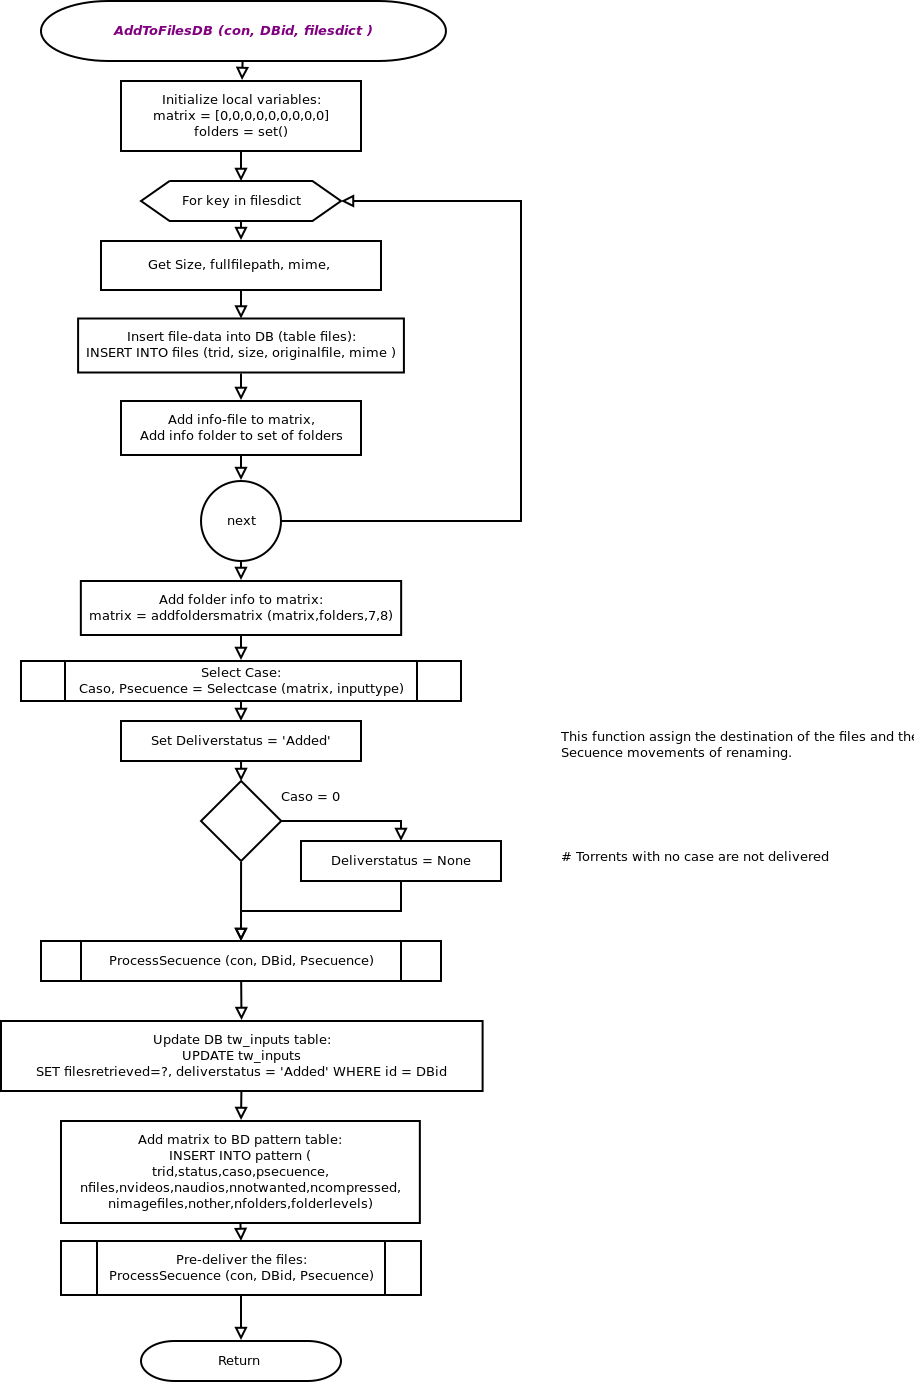
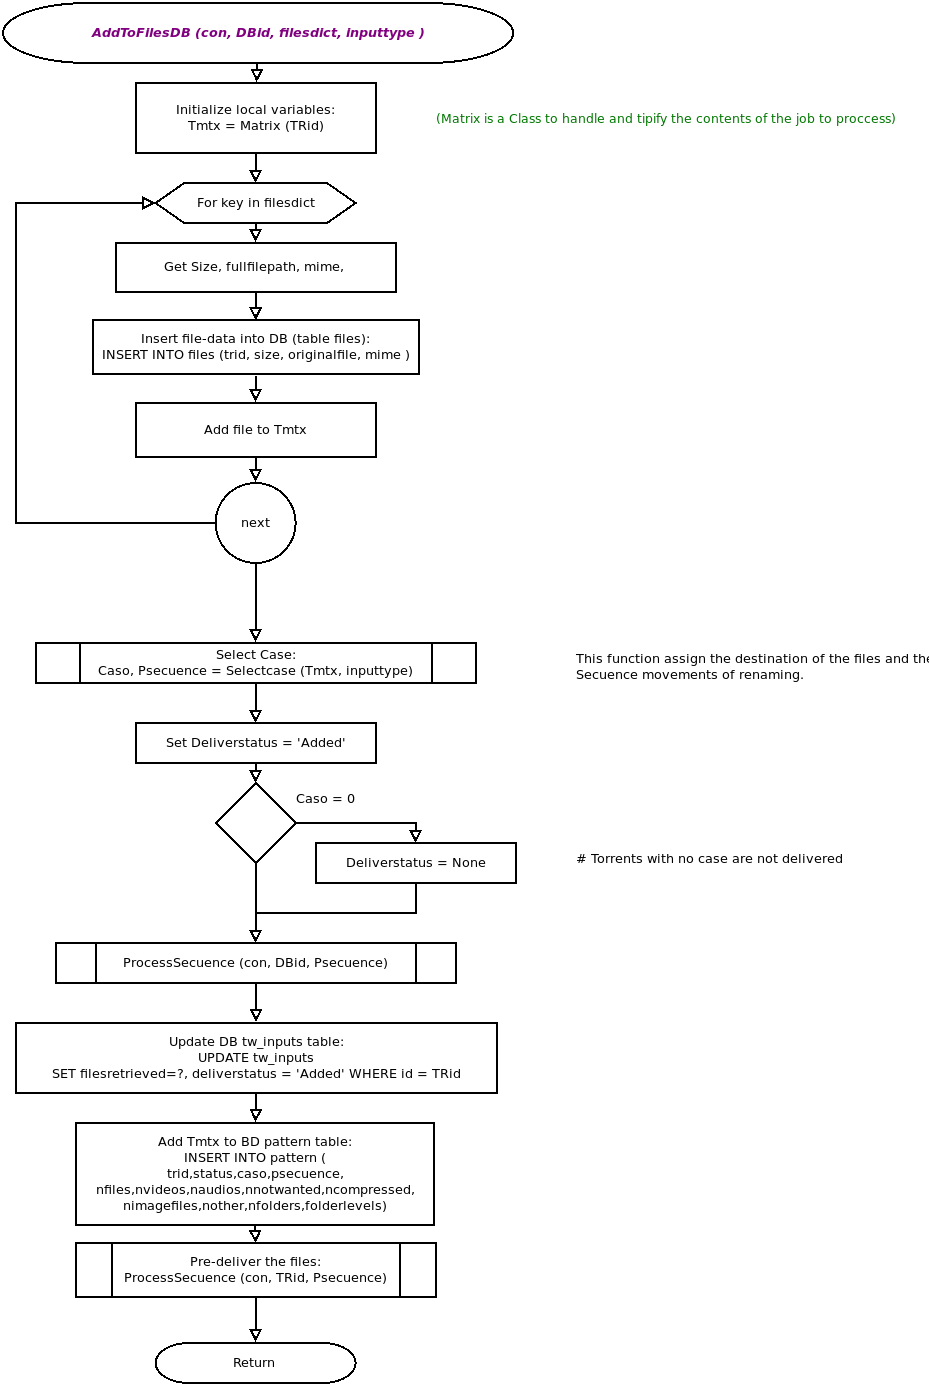
Refactoring: handling The Matrix as a Class to name vars and expand posibilities easily.

diff --git a/Gideon.py b/Gideon.py
@@ -1789,33 +1789,79 @@ def Retrievefilesdict ( Fullfilepath, Filetype):
 
 	return CollectionDictionary
 
-def AddFilesToDB (con, DBid, filesdict, inputtype):
+class Matrix :
+	""" Matrix generation for the set of downloaded files 
+		it identifies de downloaded item in ordert to perform deliver actions """
+	def __init__(self,TRid):
+		self.TRid = TRid
+		self.nfiles = 0
+		self.nvideos = 0
+		self.naudios = 0
+		self.nnotwanted = 0
+		self.ncompressed = 0
+		self.nimagefiles = 0
+		self.nother = 0
+		self.nbooks = 0
+		self.ncomics = 0
+		self.nfolders = 0
+		self.folderlevels = 0
+		self.folders_Set = set ()
+
+	def __addfolder__ (self,item):
+		self.folders_Set.add (os.path.dirname(item))
+		self.nfolders = len (self.folders_Set)
+		nlev = 1 + item.count('/')
+		if self.folderlevels < nlev:
+			self.folderlevels = nlev
+		print (os.path.dirname(item))
+		print (self.folders_Set)
+		print ('folderlevels', self.folderlevels)
+
+	def addfile (self,item):
+		self.nfiles += 1
+		mime = fileclasify (item)
+		if mime == 'video' : self.nvideos += 1
+		elif mime == 'audio' : self.naudios += 1
+		elif mime == 'ebook' : self.nbooks += 1
+		elif mime == 'comic' : self.ncomics += 1
+		elif mime == 'compressed' :self.ncompressed += 1
+		elif mime == 'notwanted' : self.nnotwanted += 1
+		elif mime == 'image' : self.nimagefiles += 1
+		else: self.nother += 1
+		self.__addfolder__(item)
+
+# =====================
+
+
+def AddFilesToDB (con, TRid, filesdict, inputtype):
 	''' Given a downloaded entry and its files-dict,
 		it informs those files in the Data Base,
 		it gets the matrix,
 		inform the matrix into the database,
 		it applies the process secuence and inform the destination of the files.
 	'''
-	matrix = [0,0,0,0,0,0,0,0,0,0,0]
-	folders = set()
+	#-# matrix = [0,0,0,0,0,0,0,0,0,0,0]
+	Tmtx = Matrix (TRid)
+	#-# folders = set()
 	for key in filesdict:
 		Size = filesdict.get(key)['size']
 		Originalfile = filesdict.get(key)['name']
 		Mime = fileclasify(Originalfile)
-		params = DBid, Size, Originalfile, Mime
+		params = TRid, Size, Originalfile, Mime
 		con.execute ("INSERT INTO files (trid, size, originalfile, mime ) VALUES (?,?,?,?)",params)
-		matrix = addmatrix (matrix, Mime)
-		folders.add (os.path.dirname(Originalfile))
-	matrix = addfoldersmatrix (matrix,folders,9,10)
+		#-# matrix = addmatrix (matrix, Mime)
+		Tmtx.addfile(Originalfile)
+		#-# folders.add (os.path.dirname(Originalfile))
+	#-# matrix = addfoldersmatrix (matrix,folders,9,10)
 	# Selecting Case and processing torrent files.
-	Caso, Psecuence = Selectcase (matrix, inputtype)
+	Caso, Psecuence = Selectcase (Tmtx, inputtype)
 	Deliverstatus = 'Added'
 	if Caso == 0:
 		Deliverstatus = None  # Torrents with no case are not delivered
-	ProcessSecuence (con, DBid, Psecuence)
-	params = len(filesdict), Deliverstatus ,DBid
+	ProcessSecuence (con, TRid, Psecuence)
+	params = len(filesdict), Deliverstatus ,TRid
 	con.execute ("UPDATE tw_inputs SET filesretrieved=?, deliverstatus = ? WHERE id = ?",params)
-	params = DBid, 'Added', Caso, str(Psecuence),  matrix[0],matrix[1],matrix[2],matrix[3],matrix[4],matrix[5],matrix[6],matrix[7],matrix[8],matrix[9],matrix[10]
+	params = TRid, 'Added', Caso, str(Psecuence),   Tmtx.nfiles, Tmtx.nvideos, Tmtx.naudios, Tmtx.nnotwanted, Tmtx.ncompressed, Tmtx.nimagefiles, Tmtx.nother, Tmtx.nbooks, Tmtx.ncomics, Tmtx.nfolders, Tmtx.folderlevels
 	con.execute ("INSERT INTO pattern (trid,status,caso,psecuence,nfiles,nvideos,naudios,nnotwanted,ncompressed,nimagefiles,nother,nbooks,ncomics,nfolders,folderlevels) VALUES (?,?,?,?,?,?,?,?,?,?,?,?,?,?,?)",params)
 	con.commit()
 	return 
@@ -1958,29 +2004,29 @@ def Selectcase (matrix, inputtype):
 		[4] ncompressed
 		[5] nimagefiles
 		[6] nother
-		[7] nebook
-		[8] ncomic
+		[7] nbooks
+		[8] ncomics
 		[9] nfolders
 		[10] folderlevels
 
 		DefTest OK"""
 	# Selectig case of only one video file:
-	if matrix[0] >= 1 and matrix[1] == 1 and (matrix[2]+matrix[4]+matrix[5]+matrix[6])==0 and matrix[10]==1:
+	if matrix.nfiles >= 1 and matrix.nvideos == 1 and (matrix.naudios+matrix.ncompressed+matrix.nimagefiles+matrix.nother)==0 and matrix.folderlevels==1:
 		NCase = 1
 
-	elif matrix[0] > 1 and matrix[1]==1 and (matrix[2]+matrix[4])==0 and matrix[6]==0 and matrix[10]==1:
+	elif matrix.nfiles > 1 and matrix.nvideos==1 and (matrix.naudios+matrix.ncompressed)==0 and matrix.nother==0 and matrix.folderlevels==1:
 		NCase = 2
 
-	elif matrix[0] >= 1 and matrix[2]>0 and (matrix[1]+matrix[6])==0 and matrix[9]==1 and matrix[10]==1:
+	elif matrix.nfiles >= 1 and matrix.naudios>0 and (matrix.nvideos+matrix.nother)==0 and matrix.nfolders==1 and matrix.folderlevels==1:
 		NCase = 3
 
-	elif matrix[0] >= 1 and matrix[1] == 0 and matrix[2] >= 1 and (matrix[4] + matrix[6] + matrix[7] + matrix[8]) == 0 and matrix[9]>=1 and matrix[10] > 1:
+	elif matrix.nfiles >= 1 and matrix.nvideos == 0 and matrix.naudios >= 1 and (matrix.ncompressed + matrix.nother + matrix.nbooks + matrix.ncomics) == 0 and matrix.nfolders>=1 and matrix.folderlevels > 1:
 		NCase = 7
 
-	elif matrix[0] == 1 and matrix[8] == 1:
+	elif matrix.nfiles == 1 and matrix.ncomics == 1:
 		NCase = 5
 
-	elif matrix[0] == 1 and matrix[7] == 1:
+	elif matrix.nfiles == 1 and matrix.nbooks == 1:
 		NCase = 6
 
 	elif inputtype == 'Telegram':
@@ -1993,29 +2039,7 @@ def Selectcase (matrix, inputtype):
 	
 	return NCase, Psecuensedict[NCase]
 
-def addmatrix(matrix, mime):
-	""" Adds +1 on matrix [0]
-		Adds +1 on matrix by mime type dict.
-		Deftest OK"""
-	matrix [0] += 1
-	matrix [Codemimes[mime]] += 1
-	return matrix
 
-def addfoldersmatrix (matrix, folders, posnfolders, posfolderlevels):
-	""" Given a info matrix and a set of relative _folders_,
-		it returns in the given positions:
-			number of diferent folders (counts the elements that are into the set())
-			depth of level path.
-		returns the matrix.
-		Deftest OK"""
-	matrix [posnfolders] = len(folders)
-	levels = 0
-	for a in folders:
-		nlev = 1 + a.count('/')
-		if nlev > levels:
-			levels = nlev
-	matrix [posfolderlevels] = levels
-	return matrix
 
 def DeliverFiles():
 	''' Check for 'Completed' entries and _deliverstatus_ = 'Added' in tw_inputs DB.

diff --git a/DefTests.py b/DefTests.py
@@ -239,25 +239,41 @@ class Selectcase (unittest.TestCase):
 		[10] folderlevels
 		"""
 	known_values = (
-		([0,0,0,0,0,0,0,0,0,  0,0], None , 0),
-		([1,1,0,0,0,0,0,0,0,  1,1], None , 1),
-		([60,1,0,55,0,4,0,0,0,  1,1], None, 2),
-		([25,0,13,0,0,1,0,0,0,  1,1], None, 3),
-		([26,0,13,1,0,1,0,0,0,  1,1], None, 3),
-		([26,0,13,1,0,1,0,0,0,  1,1], 'Telegram', 3),
-		([27,0,13,1,0,1,1,0,0,  1,1], None, 0),
-		([27,0,13,1,0,1,1,0,0,  1,1], 'Telegram', 4),  # If there is a no suitable case, and inputtype is 'Telegram', then Case is 4
-		([4,0,0,3,1,0,0,0,0, 1,1], None, 0),  # Compressed file
-		([1,0,0,0,0,0,0,1,0, 1,1], 'Telegram', 6),  # e-book file
-		([1,0,0,0,0,0,0,1,0, 1,1], None, 6),  # e-book file
-		([1,0,0,0,0,0,0,0,1, 1,1], 'Telegram', 5),  # Comic file file
-		([61,0,61,0,0,0,0,0,0, 6,2], None, 7),  # Audio files in a discography
-		([313,0,226,0,0,87,0,0,0, 37,4], None, 7),  # Audio files in a discography
+		(1,[0,0,0,0,0,0,0,0,0,  0,0], None , 0),
+		(2,[1,1,0,0,0,0,0,0,0,  1,1], None , 1),
+		(3,[60,1,0,55,0,4,0,0,0,  1,1], None, 2),
+		(4,[25,0,13,0,0,1,0,0,0,  1,1], None, 3),
+		(5,[26,0,13,1,0,1,0,0,0,  1,1], None, 3),
+		(6,[26,0,13,1,0,1,0,0,0,  1,1], 'Telegram', 3),
+		(7,[27,0,13,1,0,1,1,0,0,  1,1], None, 0),
+		(8,[27,0,13,1,0,1,1,0,0,  1,1], 'Telegram', 4),  # If there is a no suitable case, and inputtype is 'Telegram', then Case is 4
+		(9,[4,0,0,3,1,0,0,0,0, 1,1], None, 0),  # Compressed file
+		(10,[1,0,0,0,0,0,0,1,0, 1,1], 'Telegram', 6),  # e-book file
+		(11,[1,0,0,0,0,0,0,1,0, 1,1], None, 6),  # e-book file
+		(12,[1,0,0,0,0,0,0,0,1, 1,1], 'Telegram', 5),  # Comic file file
+		(13,[61,0,61,0,0,0,0,0,0, 6,2], None, 7),  # Audio files in a discography
+		(14,[313,0,226,0,0,87,0,0,0, 37,4], None, 7),  # Audio files in a discography
 		)
 	def test_Selectcase (self):
-		for example, inputtype, pattern in self.known_values:
-			result = MD.Selectcase (example, inputtype)
-			self.assertEqual (pattern, result[0])
+		for testID, example, inputtype, target in self.known_values:
+			M = MD.Matrix(testID)
+
+			M.nfiles = example[0]
+			M.nvideos = example[1]
+			M.naudios = example[2]
+			M.nnotwanted = example[3]
+			M.ncompressed = example[4]
+			M.nimagefiles = example[5]
+			M.nother = example[6]
+			M.nbooks = example[7]
+			M.ncomics = example[8]
+			
+			M.nfolders = example[9]
+			M.folderlevels = example[10]
+
+			print (testID,end='-')
+			result = MD.Selectcase (M, inputtype)
+			self.assertEqual (target, result[0])
 
 class itemcheck_text_values (unittest.TestCase):
 	'''testing itemcheck function'''
@@ -292,47 +308,6 @@ class getappstatus (unittest.TestCase):
 			result = MD.getappstatus (process)
 			self.assertEqual (status, result)
 
-class addmatrix (unittest.TestCase):
-	""" Adds +1 on matrix [0]
-		Adds +1 on matrix by mime type dict.
-		each type has a position into the matrix
-		"""
-	known_values = (
-		(([0,0,0,0,0,0,0,0,0],'audio'), [1,0,1,0,0,0,0,0,0] ),
-		(([32,1,2,3,4,5,6,0,0],'video'), [33,2,2,3,4,5,6,0,0] ),
-		(([100,0,0,0,0,0,8,0,0],'audio'), [101,0,1,0,0,0,8,0,0] ),
-		(([6,0,0,0,0,0,0,0,0],'compressed'), [7,0,0,0,1,0,0,0,0] ),
-		(([88,0,1,0,0,9,0,0,0],'image'), [89,0,1,0,0,10,0,0,0] ),
-		(([154,0,1,0,0,0,55,0,0],'other'), [155,0,1,0,0,0,56,0,0] ),
-		(([33,0,0,0,0,0,88,0,0],'ebook'), [34,0,0,0,0,0,88,1,0] ),
-		(([34,0,0,0,0,0,89,0,4],'comic'), [35,0,0,0,0,0,89,0,5] ),
-		)
-	def test_addmatrix (self):
-		for example, pattern in self.known_values:
-			result = MD.addmatrix (example[0],example[1])
-			self.assertEqual (pattern, result)
-
-class addfoldersmatrix (unittest.TestCase):
-
-	known_values = (
-		(([0,0,0,0,0,0,0,0,0,0,0],set(['only one path'])), [0,0,0,0,0,0,0,0,0,1,1] ),
-		(([0,0,0,0,0,45,0,0,0,0,0],set(['two levels/of path'])), [0,0,0,0,0,45,0,0,0,1,2] ),
-		(([0,0,0,0,0,0,0,0,0,0,0],set([
-										'two levels/of path',
-										'one level'])), [0,0,0,0,0,0,0,0,0,2,2] ),
-		(([0,0,0,0,0,0,0,0,0,0,0],set([
-										'two levels/of path',
-										'two levels/another level',
-										'one level'])), [0,0,0,0,0,0,0,0,0,3,2] ),
-		(([33,0,0,0,0,0,0,0,0,0,0],set([
-										'three levels/of/path',
-										'two levels/another level',
-										'one level'])), [33,0,0,0,0,0,0,0,0,3,3] ),
-		)
-	def test_addmatrix (self):
-		for example, pattern in self.known_values:
-			result = MD.addfoldersmatrix (example[0],example[1],9,10)
-			self.assertEqual (pattern, result)
 
 class fileclasify (unittest.TestCase):
 	""" Tipify a file by its extension
